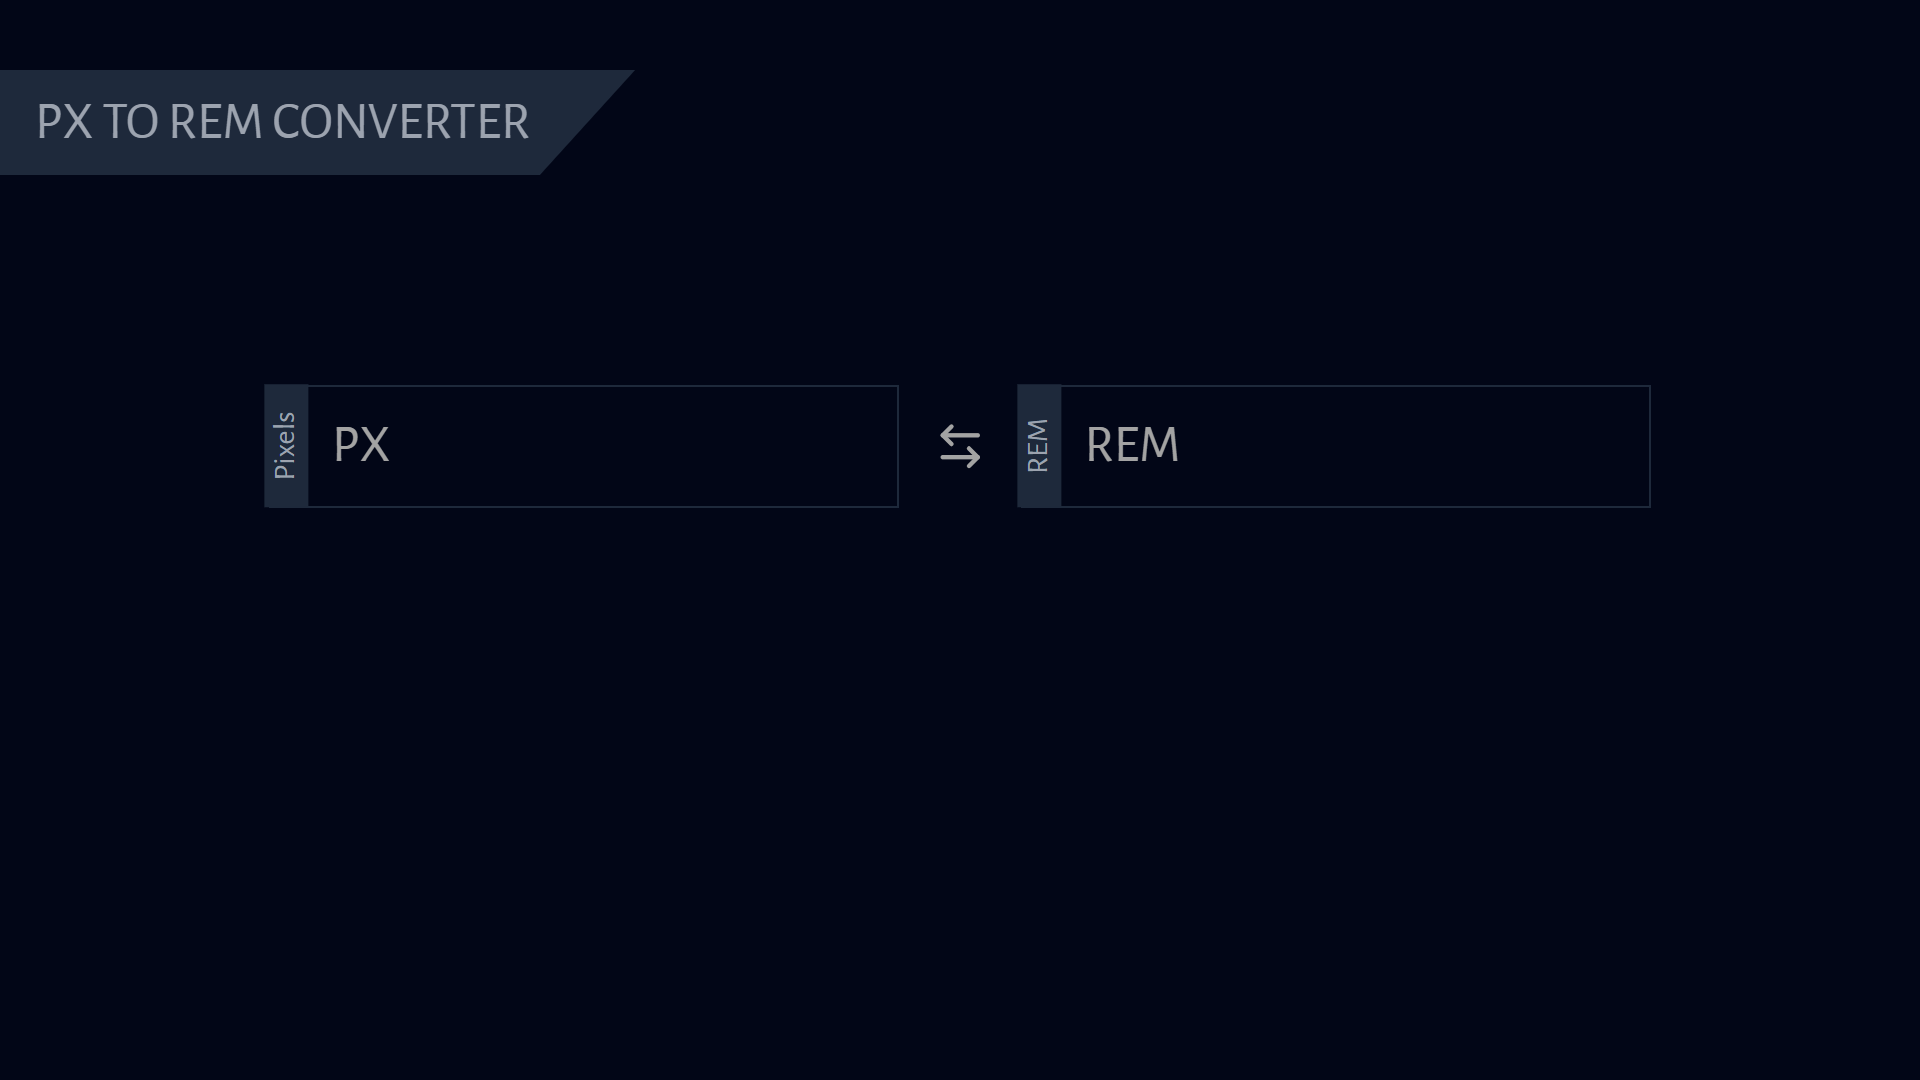
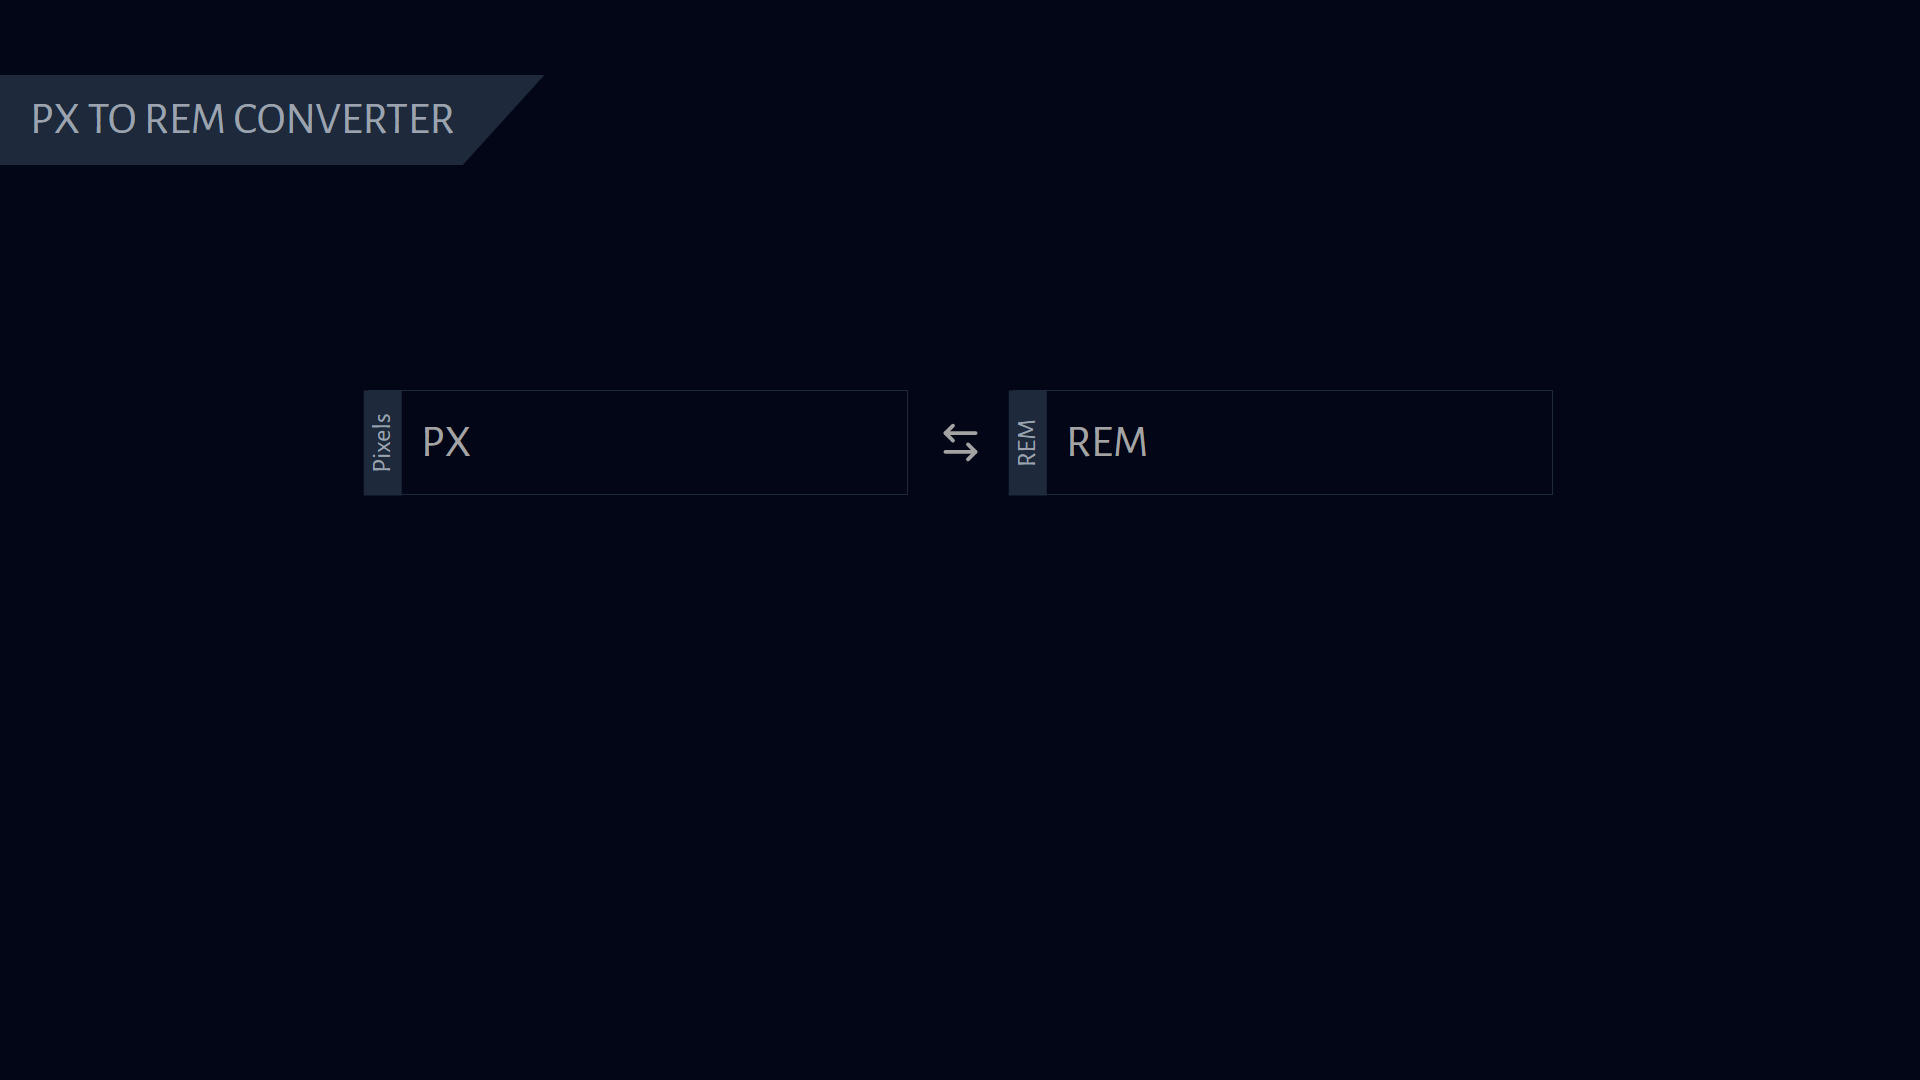
px to rem converter project ui issue fixed

Changed region(s): [[0.0, 0.0611, 0.3438, 0.1833], [0.125, 0.3361, 0.25, 0.4889], [0.4688, 0.3361, 0.625, 0.4889]]

diff --git a/src/pages/projects/PxToREM.jsx b/src/pages/projects/PxToREM.jsx
@@ -33,13 +33,13 @@ const PxToREM = () => {
       <div className="mx-auto w-full max-w-[1000px] pt-24">
         <button
           onClick={() => setPxToRem(!pxToRem)}
-          className="fixed left-0 top-8 cursor-pointer bg-slate-800 py-2 pe-12 ps-4 text-xl uppercase text-gray-400 sm:text-2xl"
+          className="fixed left-0 top-8 cursor-pointer bg-slate-800 py-2 pe-12 ps-4 text-xl uppercase text-gray-400 sm:top-10 sm:text-2xl"
           style={{ clipPath: "polygon(0 0, 100% 0, 85% 100%, 0% 100%)" }}
         >
           {pxToRem ? "PX To REM" : "REM To PX"} Converter
         </button>
         <div
-          className={`mt-20 flex w-full ${pxToRem ? "flex-col sm:flex-row" : "flex-col-reverse sm:flex-row-reverse"} items-center justify-center gap-4`}
+          className={`mt-24 flex w-full sm:mt-28 ${pxToRem ? "flex-col sm:flex-row" : "flex-col-reverse sm:flex-row-reverse"} items-center justify-center gap-4`}
         >
           <div className="relative w-full max-w-72">
             <input
